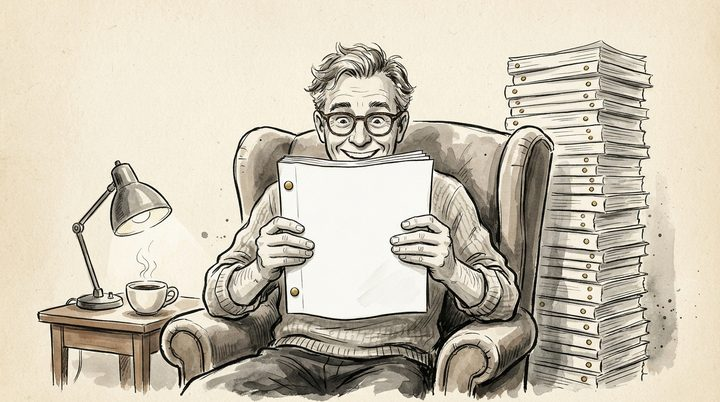
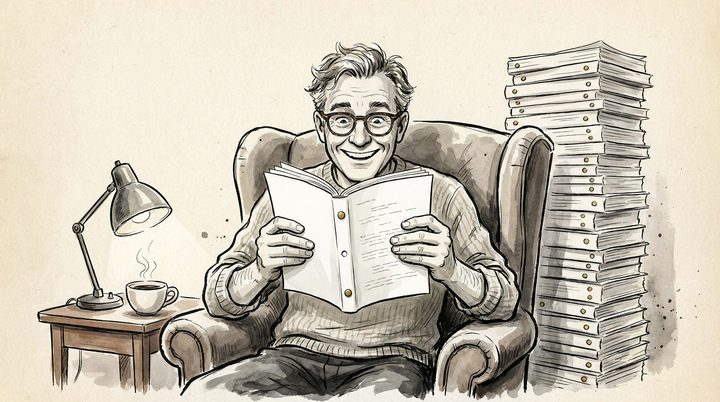
TV pilot post: illustration with open, letter-size, two-brad screenplay; cache-bust v=4
Claude-Session: https://claude.ai/code/session_01MHVK5XN9nzGoi33LG9c4rw

diff --git a/blog/tv-pilot-first-10-pages/index.html b/blog/tv-pilot-first-10-pages/index.html
@@ -24,7 +24,7 @@
 <meta property="og:title" content="What a reader looks for in the first 10 pages of a TV pilot">
 <meta property="og:description" content="Most pilots are decided early. Here&#x27;s what a reader needs from page one, page five and page ten, and the mistakes that end the read.">
 <meta property="og:url" content="https://screenwritingconsultant.com/blog/tv-pilot-first-10-pages/">
-<meta property="og:image" content="https://screenwritingconsultant.com/assets/img/blog/tv-pilot-first-10-pages-og.jpg?v=3">
+<meta property="og:image" content="https://screenwritingconsultant.com/assets/img/blog/tv-pilot-first-10-pages-og.jpg?v=4">
 <meta property="article:author" content="Matt Tabak">
 <meta property="article:published_time" content="2026-11-21">
 <meta name="twitter:card" content="summary_large_image">
@@ -41,7 +41,7 @@
       "headline": "What a reader looks for in the first 10 pages of a TV pilot",
       "description": "What readers, reps and executives look for in the first 10 pages of a TV pilot: tone on page one, a character worth following, the engine, voice, and the mistakes that end the read early.",
       "mainEntityOfPage": "https://screenwritingconsultant.com/blog/tv-pilot-first-10-pages/",
-      "image": "https://screenwritingconsultant.com/assets/img/blog/tv-pilot-first-10-pages-og.jpg?v=3",
+      "image": "https://screenwritingconsultant.com/assets/img/blog/tv-pilot-first-10-pages-og.jpg?v=4",
       "author": {
         "@type": "Person",
         "@id": "https://screenwritingconsultant.com/about/#matt",
@@ -175,7 +175,7 @@
         </div>
       </div>
     </header>
-    <div class="wrap"><figure class="article-hero"><picture><source srcset="../../assets/img/blog/tv-pilot-first-10-pages.webp?v=3" type="image/webp"><img src="../../assets/img/blog/tv-pilot-first-10-pages.jpg?v=3" alt="A reader in a wingback armchair reads a script marked with a gold ribbon bookmark, beside a towering stack of unread scripts" width="1376" height="768" fetchpriority="high"></picture></figure></div>
+    <div class="wrap"><figure class="article-hero"><picture><source srcset="../../assets/img/blog/tv-pilot-first-10-pages.webp?v=4" type="image/webp"><img src="../../assets/img/blog/tv-pilot-first-10-pages.jpg?v=4" alt="A reader in a wingback armchair reads a script marked with a gold ribbon bookmark, beside a towering stack of unread scripts" width="1376" height="768" fetchpriority="high"></picture></figure></div>
     <div class="wrap article-layout">
       <nav class="toc" aria-label="In this post">
         <p>In this post</p>

diff --git a/blog/index.html b/blog/index.html
@@ -180,7 +180,7 @@
       <p>Six kinds of screenplay feedback, what each is built to do, and how to choose the right one for where your script is.</p>
     </article>
     <article class="post-card" data-cat="tv">
-      <picture><source srcset="../assets/img/blog/tv-pilot-first-10-pages-720.webp?v=3" type="image/webp"><img class="thumb thumb--img" src="../assets/img/blog/tv-pilot-first-10-pages-720.jpg?v=3" alt="" width="720" height="402" loading="lazy"></picture>
+      <picture><source srcset="../assets/img/blog/tv-pilot-first-10-pages-720.webp?v=4" type="image/webp"><img class="thumb thumb--img" src="../assets/img/blog/tv-pilot-first-10-pages-720.jpg?v=4" alt="" width="720" height="402" loading="lazy"></picture>
       <p class="label">Television</p>
       <h3><a href="tv-pilot-first-10-pages/">What a reader looks for in the first 10 pages of a TV pilot</a></h3>
       <p>What a reader needs from page one, page five and page ten, and the mistakes that end the read early.</p>
